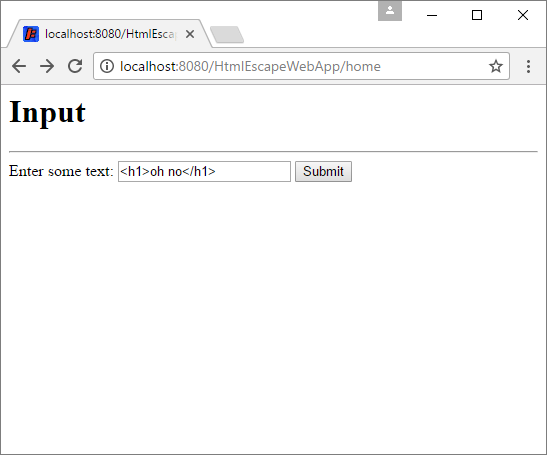
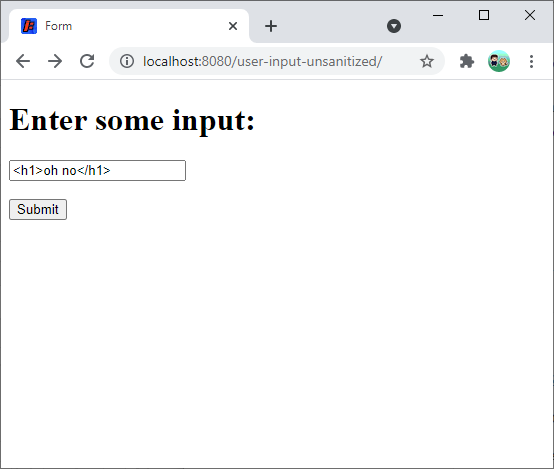
libraries example

diff --git a/tutorials/java-server/_posts/2017-06-26-libraries.md b/tutorials/java-server/_posts/2017-06-26-libraries.md
@@ -8,212 +8,192 @@ meta-title: Sever Libraries
 meta-description: Learn how to use libaries in your server code.
 meta-image: /tutorials/java-server/images/libraries-6.png
 tags: [tutorial, java, server, libraries]
+updated: 2021-09-11
 ---
 
 {% include toc.md %}
 
-At this point, we've learned how to write server code using servlets and JSP. This lets us run Java code on a server, perform logic based on user web requests, and formulate responses that are then rendered into HTML. But at its core, you're really just writing Java. And like we learned in [the Java libraries tutorial](/tutorials/java/libraries), you can use libraries to expand what your code can do. You should already be familiar with the basics of what a Java library is, and what the classpath is. This tutorial shows you how to use Java libraries in your server code.
+So far, you've learned how to write your own Java server code using servlets and JSP.
 
-## Example Web App
+Remember from [the Java libraries tutorial](/tutorials/java/libraries) that you can use **libraries** to expand what your code can do. This tutorial shows you how to use Java libraries in your server code.
 
-Let's start with an example web app that takes input from a user and then displays it. Here's our servlet class:
+# Example Web App
+
+Let's start with an example web app that takes input from a user and then displays it.
+
+The `index.html` file contains a form that submits user data as a `POST` request.
+
+```html
+<!DOCTYPE html>
+<html>
+  <head>
+    <title>Form</title>
+  </head>
+  <body>
+    <h1>Enter some input:</h1>
+    <form action="/user-input-unsanitized/form" method="POST">
+      <input type="text" name="data" value="<h1>oh no</h1>">
+      <br><br>
+      <input type="submit" value="Submit">
+    </form>
+  </body>
+</html>
+```
+
+The `FormServlet` class takes the user input and prints it as the response.
 
 ```java
+package io.happycoding.servlets;
+
 import java.io.IOException;
+import jakarta.servlet.annotation.WebServlet;
+import jakarta.servlet.http.HttpServlet;
+import jakarta.servlet.http.HttpServletRequest;
+import jakarta.servlet.http.HttpServletResponse;
 
-import javax.servlet.ServletException;
-import javax.servlet.http.HttpServlet;
-import javax.servlet.http.HttpServletRequest;
-import javax.servlet.http.HttpServletResponse;
+@WebServlet("/form")
+public class FormServlet extends HttpServlet {
 
+  @Override
+  public void doPost(HttpServletRequest request, HttpServletResponse response)
+      throws IOException {
 
-public class HtmlEscapeServlet extends HttpServlet {
-	
-	@Override
-	public void doGet(HttpServletRequest request, HttpServletResponse response) throws IOException, ServletException {
-		response.getOutputStream().println("<h1>Input</h1>");
-		response.getOutputStream().println("<hr/>");
-		response.getOutputStream().println("<form action=\"\" method=\"POST\">");
-		response.getOutputStream().println("<span>Enter some text: </span>");
-		response.getOutputStream().println("<input type=\"text\" name=\"text\">");
-		response.getOutputStream().println("<input type=\"submit\" value=\"Submit\">");
-		response.getOutputStream().println("</form>");
-	}
-	
-	@Override
-	public void doPost(HttpServletRequest request, HttpServletResponse response) throws IOException, ServletException {
-	
-		String text = request.getParameter("text");
-		
-		response.getOutputStream().println("<h1>Input</h1>");
-		response.getOutputStream().println("<hr/>");
-		response.getOutputStream().println("<p>Here's the text you entered: " + text + "</p>");
-	}
+    String data = request.getParameter("data");
+
+    response.setContentType("text/html");
+    response.getWriter().println("You entered: " + data);
+  }
 }
 ```
 
-In its `doGet()` function, this servlet renders a simple form with one text input. Its `doPost()` function gets the input from that form and renders it to the screen.
+You can [see this example project](https://github.com/KevinWorkman/HappyCoding/tree/gh-pages/examples/java-server/java-server-example-projects/user-input-unsanitized), and you can [download this example as a `.zip` file](https://downgit.github.io/#/home?url=https://github.com/KevinWorkman/HappyCoding/tree/gh-pages/examples/java-server/java-server-example-projects/user-input-unsanitized).
 
-To compile this `.java` file, we execute this command in a console:
-
-```
-javac -cp C:/Users/kevin/Desktop/jetty/lib/servlet-api-3.1.jar HtmlEscapeServlet.java
-```
-
-That gives us a `.class` file, which we put into the `classes` directory of our web app. Now all we need is a `web.xml` file:
-
-```xml
-<web-app
-	xmlns="http://xmlns.jcp.org/xml/ns/javaee"
-	xmlns:xsi="http://www.w3.org/2001/XMLSchema-instance"
-	xsi:schemaLocation="http://xmlns.jcp.org/xml/ns/javaee
-		http://xmlns.jcp.org/xml/ns/javaee/web-app_3_1.xsd"
-	version="3.1">
-
-
-	<servlet>
-		<servlet-name>HtmlEscapeServlet</servlet-name>
-		<servlet-class>HtmlEscapeServlet</servlet-class>
-	</servlet>
-
-	<servlet-mapping>
-		<servlet-name>HtmlEscapeServlet</servlet-name>
-		<url-pattern>/home</url-pattern>
-	</servlet-mapping>
-
-</web-app>
-```
-
-This maps the `/home` URL to our servlet. Putting it all together, our web app directory looks like this:
-
-- `HtmlEscapeWebApp/`
-  - `WEB-INF/`
-    - `web.xml`
-    - `classes/`
-      - `HtmlEscapeServlet.class`
-
-We can drop the `HtmlEscapeWebApp` directory into the `webapps` directory of our Jetty server, run Jetty, and visit [http://localhost:8080/HtmlEscapeWebApp/home](http://localhost:8080/HtmlEscapeWebApp/home) to see our form. You can enter some text to make sure it works. But what happens if you enter html?
+What happens if the user enters some HTML content?
 
 ![entering html](/tutorials/java-server/images/libraries-1.png)
 
-Try entering something like `<h1>oh no</h1>` into the text input and clicking the `Submit` button. You'll see that the html is rendered in the page:
+Try entering something like `<h1>oh no</h1>` into the text input and clicking the `Submit` button. You'll see that that your HTML is rendered in the page:
 
 ![html rendered in page](/tutorials/java-server/images/libraries-2.png)
 
-This is because our servlet code is just outputting the text directly into the HTML on this line:
+This happens because the servlet code outputs the text directly into the response on this line:
 
 ```java
-response.getOutputStream().println("<p>Here's the text you entered: " + text + "</p>");
+response.getWriter().println("You entered: " + data);
 ```
 
-So if `text` is `<h1>oh no</h1>`, then the HTML that gets rendered to the screen is `<p>Here's the text you entered: <h1>oh no</h1></p>`.
+So if `text` is `<h1>oh no</h1>`, then the response that gets sent to the client is `You entered: <h1>oh no</h1>`. When the browser renders that content, it parses the HTML and shows an `h1` heading.
 
-Allowing users to input arbitrary HTML can cause problems on your site. It can lead to bad formatting, or even worse, exploits like [cross-site scripting](https://en.wikipedia.org/wiki/Cross-site_scripting). You can read more about that, but basically, we need to replace any problematic characters in the text with [character entities](https://www.w3schools.com/html/html_entities.asp) so that it renders as text instead of HTML. This is called [escaping](https://en.wikipedia.org/wiki/Escape_character).
+That might not seem like a big deal, but letting users input arbitrary HTML can cause problems on your site. It can lead to bad formatting, or even worse, exploits like [cross-site scripting](https://en.wikipedia.org/wiki/Cross-site_scripting).
 
-We could probably write some logic that encodes `<` as `&lt;` and `>` as `&gt;`, but let's use a library instead!
+One way to fix that is by replacing HTML characters in the text with [character entities](https://www.w3schools.com/html/html_entities.asp) so that it renders as text instead of HTML. This is called [escaping](https://en.wikipedia.org/wiki/Escape_character).
 
-## Commons Lang
+For this specific example, you could probably write some logic that encodes `<` as `&lt;` and `>` as `&gt;`, but let's use a library instead!
 
-Let's use a library called [Apache Commons Lang](https://commons.apache.org/proper/commons-lang/). It provides a bunch of utility classes and functions, but we're just using it as a simple example. The steps you follow to use this library apply to any library you want to use.
+# Step 0: Find a Library
 
-Go to [the Commons Lang download page](http://commons.apache.org/proper/commons-lang/download_lang.cgi) and download the **binary** zip file. Unzip that to wherever you want- putting it on your desktop for now is fine. 
+With so many libraries available, how do you know what's out there, or which one to choose?
 
-## The `lib` Directory
+Start by opening your favorite search engine and entering "Java library" plus the problem you're trying to solve. For example, "Java library escape html" returns quite a few suggestions you could try out.
 
-To use a library, the first thing you need to do is copy its `.jar` file into the `WEB-INF/lib` folder inside your web app directory.
+If you have a few options, peruse each library's homepage and documentation. Is the library still being updated? Is its documentation readable?
 
-So to use Commons Lang, find the `commons-lang3-3.6.jar` file (the version number might be slightly different for you) inside the `commons-lang` directory you just unzipped, and copy that `.jar` file into a `/WEB-INF/lib` folder inside your web app directory. Your web app directory should look like this:
+Try writing small "hello world" programs that test out each library, and see which one you like the best!
 
-- `HtmlEscapeWebApp/`
-  - `WEB-INF/`
-    - `web.xml`
-    - `classes/`
-      - `HtmlEscapeServlet.class`
-    - `lib/`
-      - `commons-lang3-3.6.jar`
+## Commons Text
 
-When the server runs your code, it automatically adds the `lib` directory to the classpath. So any library `.jar` files need to go inside it before you copy your code to a server directory.
+The [Apache Commons Text](https://commons.apache.org/proper/commons-text/) library provides a bunch of utility classes and functions, including a [`StringEscapeUtils`](https://commons.apache.org/proper/commons-text/javadocs/api-release/org/apache/commons/text/StringEscapeUtils.html) class that helps escape HTML text.
 
-## Using Library Code
+I'm using this library as an example, but the steps you follow to use this library apply to most libraries.
 
-Like we learned in [the Java libraries tutorial](/tutorials/java/libraries), you can use classes and functions in a Java library just like you can use regular Java classes- because that's exactly what they are. So we can consult the [Apache Commons API](http://commons.apache.org/proper/commons-lang/apidocs/) to find a class and function that's useful for escaping text. Eventually we'll find the `StringEscapeUtils.escapeHtml4()` function. We can use it in our servlet code like this:
+# Step 1: Add the Library to your Classpath
+
+Your classpath is where Java looks for classes. By default, that includes [every Java class](https://docs.oracle.com/en/java/javase/11/docs/api/allclasses-index.html) that comes with the Java Runtime Environment, and because you're using Jakarta EE, your classpath also includes the [Jakarta EE classes](https://jakarta.ee/specifications/platform/9/apidocs/).
+
+To use a library, the first thing you need to do is add it to your classpath.
+
+## Maven Dependency
+
+I highly recommend using Maven, because it means you don't have to deal with `.jar` files yourself.
+
+Most Java libraries have a Maven dependency. To find the library's Maven dependency, read through the library's docs, or try typing the library's name followed by "Maven dependency" into your favorite search engine.
+
+Here's the Maven dependency for the Apache Commons Text library:
+
+```xml
+<dependency>
+   <groupId>org.apache.commons</groupId>
+   <artifactId>commons-text</artifactId>
+   <version>1.9</version>
+</dependency>
+```
+
+Add this to your `pom.xml` file, which tells Maven to add the library to your classpath.
+
+## Downloading Library Jars
+
+I recommend using Maven as described above, but if for some reason you can't use Maven,  you can manually add the library to your classpath.
+
+Go to the [library download page](https://commons.apache.org/proper/commons-text/download_text.cgi) and download the library. Unzip the file, and find the `common-text-1.9.jar` file inside.
+
+Then you can add that file to the `-cp` argument if you're compiling via the command line, or to your Eclipse classpath if you're using Eclipse. If you're manually creating your web app directory, put the `.jar` file inside your web app directory's `WEB-INF/lib/` folder.
+
+# Step 2: Use the Library in Your Code
+
+Now that the Apache Commons Text library is on your classpath, you can use it in your code.
+
+First, find the class you want to use- in this case, it's the [`StringEscapeUtils`](https://commons.apache.org/proper/commons-text/javadocs/api-release/org/apache/commons/text/StringEscapeUtils.html) class. Import it, and then use it!
 
 ```java
+package io.happycoding.servlets;
+
 import java.io.IOException;
+import jakarta.servlet.annotation.WebServlet;
+import jakarta.servlet.http.HttpServlet;
+import jakarta.servlet.http.HttpServletRequest;
+import jakarta.servlet.http.HttpServletResponse;
+import org.apache.commons.text.StringEscapeUtils;
 
-import javax.servlet.ServletException;
-import javax.servlet.http.HttpServlet;
-import javax.servlet.http.HttpServletRequest;
-import javax.servlet.http.HttpServletResponse;
+@WebServlet("/form")
+public class FormServlet extends HttpServlet {
 
-import org.apache.commons.lang3.StringEscapeUtils;
+  @Override
+  public void doPost(HttpServletRequest request, HttpServletResponse response)
+      throws IOException {
 
+    String userInput = request.getParameter("data");
+    String escapedUserInput = StringEscapeUtils.escapeHtml4(userInput);
 
-public class HtmlEscapeServlet extends HttpServlet {
-	
-	@Override
-	public void doGet(HttpServletRequest request, HttpServletResponse response) throws IOException, ServletException {
-		response.getOutputStream().println("<h1>Input</h1>");
-		response.getOutputStream().println("<hr/>");
-		response.getOutputStream().println("<form action=\"\" method=\"POST\">");
-		response.getOutputStream().println("<span>Enter some text: </span>");
-		response.getOutputStream().println("<input type=\"text\" name=\"text\">");
-		response.getOutputStream().println("<input type=\"submit\" value=\"Submit\">");
-		response.getOutputStream().println("</form>");
-	}
-	
-	@Override
-	public void doPost(HttpServletRequest request, HttpServletResponse response) throws IOException, ServletException {
-	
-		String badHtml = request.getParameter("text");
-		String escapedHtml = StringEscapeUtils.escapeHtml4(badHtml);
-		
-		response.getOutputStream().println("<h1>Input</h1>");
-		response.getOutputStream().println("<hr/>");
-		response.getOutputStream().println("<p>Here's the text you entered: " + escapedHtml + "</p>");
-	}
+    response.setContentType("text/html");
+    response.getWriter().println("You entered: " + escapedUserInput);
+    
+  }
 }
 ```
 
-The only thing that changed is that we have an extra `import` statement, and our `doPost()` function now calls the `StringEscapeUtils.escapeHtml4()` function to get the escaped text. Hint: try printing out the value of `escapedHtml` to see what it looks like!
+This servlet now calls the `StringEscapeUtils.escapeHtml4()` function to escape the user input.
 
-## Compiling
+# Step 3: Compile and Run Your Code
 
-Now that our code uses a library, we need to add that library to our classpath when we compile it:
+Compile and run your server using the approach you chose in [anatomy of a web app](/tutorials/java-server/web-app).
 
-```
-javac -cp "C:/Users/kevin/Desktop/jetty/lib/servlet-api-3.1.jar;C:/Users/kevin/Desktop/HtmlEscapeWebApp/WEB-INF/lib/commons-lang3-3.6.jar" HtmlEscapeServlet.java
-```
+- If you're using Maven, execute `mvn package` and then move the `.war` file into your server's `webapps` directory.
+- If you're using the command line without Maven, use `javac` to compile your classes, and use the `-cp` argument to provide the library's `.jar` file.
+- If you're using Eclipse, add your project to your server and then run your server.
 
-Notice that we include both the servlet api and the Commons Lang library on the classpath. This creates the updated `.class` file that we want to copy into the `classes` folder in our web app directory.
-
-## Running
-
-We've already copied the library into the `lib` directory, so the server will handle the classpath at runtime. Just copy your `HtmlEscapeWebApp` directory into the `webapps` folder of your Jetty server and then start Jetty!
-
-Now if we try to enter HTML into the text box, we'll see this:
+Navigate to `index.html` and enter some input. Now if you try to enter HTML into the text box, you'll see this:
 
 ![html escaped in page](/tutorials/java-server/images/libraries-3.png)
 
-That's because we're using the Commons Lang library to escape the HTML, which renders it as text instead of HTML content. This is just a simple example, but all of the above will work for any library you want to use.
+That's because the Commons Text library escapes the HTML, which renders it as text instead of HTML content.
 
-## Eclipse
+You can [see this example project](https://github.com/KevinWorkman/HappyCoding/tree/gh-pages/examples/java-server/java-server-example-projects/user-input-escaped), and you can [download this example as a `.zip` file](https://downgit.github.io/#/home?url=https://github.com/KevinWorkman/HappyCoding/tree/gh-pages/examples/java-server/java-server-example-projects/user-input-escaped).
 
-If you're using Eclipse, you have to do basically the same thing.
+This example used a particular library, but all of the above will work for any library you want to use.
 
-- First, copy the library `.jar` file into the `lib` folder. 
-- Then add the library `.jar` file to your classpath. See [the Eclipse tutorial](http://happycoding.io/tutorials/java/eclipse#classpath) for more details.
+# Homework
 
-Your project should look like this:
-
-![Eclipse project](/tutorials/java-server/images/libraries-4.png)
-
-Now you can run this project from Eclipse, or you can export it as a `.war` file for hosting, and your library will be included in your server.
-
-## Homework
-
-- Use a library like [JSoup](https://jsoup.org/) to allow users to enter some HTML, but no harmful HTML.
-- Use a JSON library to convert Java objects to JSON that you use in JavaScript.
+- Use a library like [JSoup](https://jsoup.org/) to let users enter some HTML, but no harmful HTML.
+- Use a JSON library to convert Java objects to JSON that you can use in JavaScript.
 - Find a [machine learning](https://en.wikipedia.org/wiki/Machine_learning) library and [do something cool](https://www.quora.com/What-are-some-real-world-examples-of-applications-of-machine-learning-in-the-field)!
 
-# Next: [Sanitizing User Input](/tutorials/java-server/sanitizing-user-input)
